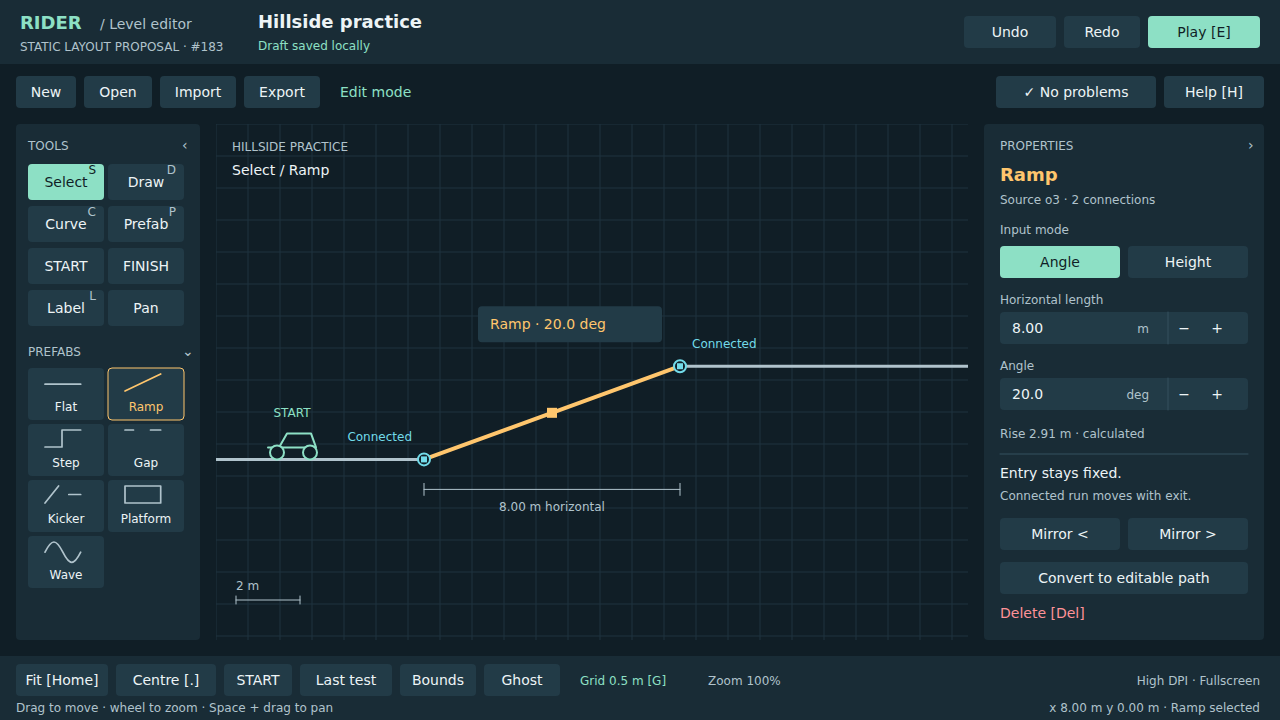
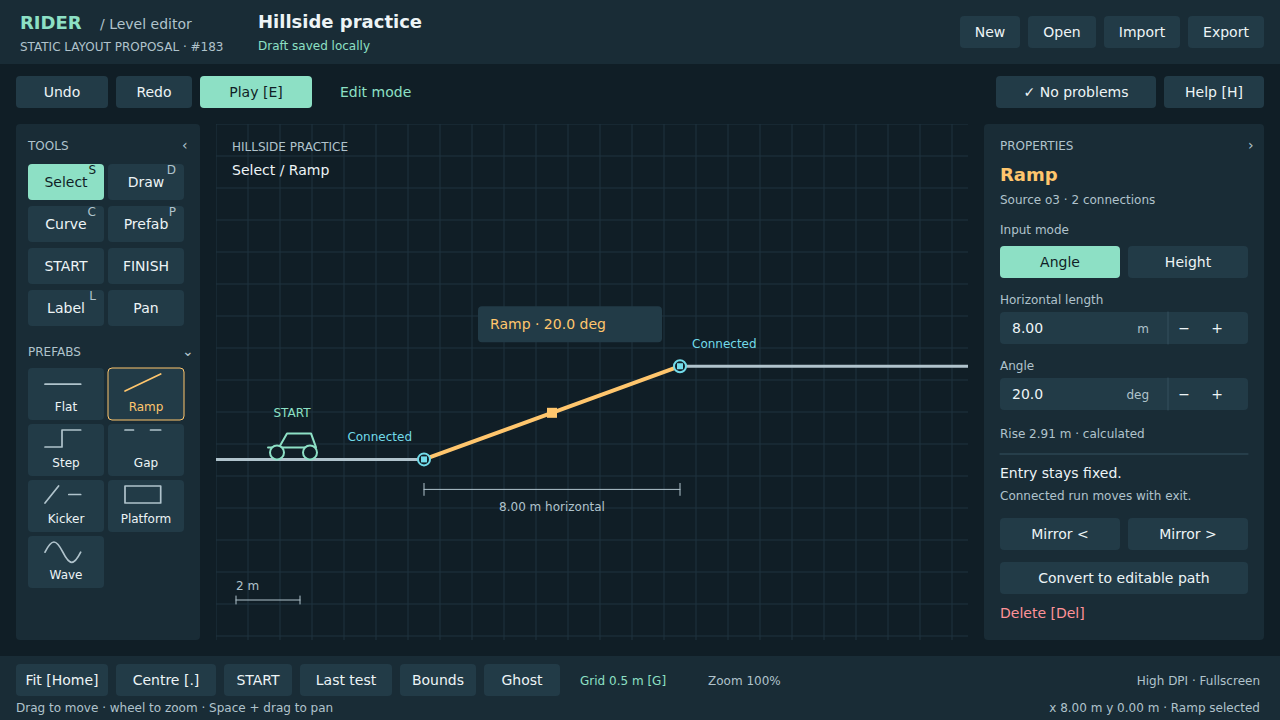
docs(editor): swap file and play command groups

Changed region(s): [[0.75, 0.0, 1.0, 0.0917], [0.0312, 0.0917, 0.25, 0.1528]]

diff --git a/docs/editor-a/render_layouts.py b/docs/editor-a/render_layouts.py
@@ -30,8 +30,8 @@ def render(w, h, selected):
     rect(0,0,w,64,PANEL,r=0); text(20,29,'RIDER',ACCENT,'title'); text(100,29,'/  Level editor',MUTED)
     text(20,51,'STATIC LAYOUT PROPOSAL  ·  #183',MUTED,'small')
     text(258,28,'Hillside practice',TEXT,'title');text(258,50,'Draft saved locally',ACCENT,'small')
-    button(w-316,16,92,'Undo');button(w-216,16,76,'Redo');button(w-132,16,112,'Play [E]',True)
-    for x,bw,label in [(16,60,'New'),(84,68,'Open'),(160,76,'Import'),(244,76,'Export')]: button(x,76,bw,label)
+    for x,bw,label in [(w-320,60,'New'),(w-252,68,'Open'),(w-176,76,'Import'),(w-92,76,'Export')]: button(x,16,bw,label)
+    button(16,76,92,'Undo');button(116,76,76,'Redo');button(200,76,112,'Play [E]',True)
     text(340,97,'Edit mode',ACCENT)
     button(w-284,76,160,'✓  No problems');button(w-116,76,100,'Help [H]')
     # Left palette.

diff --git a/STATUS.md b/STATUS.md
@@ -6,7 +6,7 @@ Updated 2026-10-20. The only source for current progress, open acceptance and bl
 
 ## Now
 
-- **Editor A1a [#183](https://github.com/bongohorse/rider/issues/183) (Claudio GO 2026-10-21):** start Milestone 7, Editor A – UI & Recovery; owner Codex, branch `docs/183-editor-layout`. Dependency #129 is closed as completed: Claudio's acceptance/closure decision is recorded in its Closure section (2026-10-21), without new trial observations or timings. Four PNG/SVG layout previews (build / selected Ramp at 1280×720 and 1920×1080), reproducible vector source and the screen-layout specification are in [PR #253](https://github.com/bongohorse/rider/pull/253). Visual inspection of all four, exact PNG dimensions, text contrast, local links, bootstrap check + 55 tests, 29 Python CI tests and 71 Node CI/mobile tests PASS. GUI allocation is an estimate (606/640), not a runtime measurement. No game/GUI code changed. Final diff self-review complete; no independent review claimed. CI evidence is tracked in the PR; it remains open for approval, with no automatic merge. Stop for Claudio's layout approval; #171 has no GO and must not start. This explicit GO supersedes the earlier Editor A scheduling hold for this task only.
+- **Editor A1a [#183](https://github.com/bongohorse/rider/issues/183) (Claudio GO 2026-10-21):** start Milestone 7, Editor A – UI & Recovery; owner Codex, branch `docs/183-editor-layout`. Dependency #129 is closed as completed: Claudio's acceptance/closure decision is recorded in its Closure section (2026-10-21), without new trial observations or timings. Four PNG/SVG layout previews (build / selected Ramp at 1280×720 and 1920×1080), reproducible vector source and the screen-layout specification are in [PR #253](https://github.com/bongohorse/rider/pull/253). Visual inspection of all four, exact PNG dimensions, text contrast, local links, bootstrap check + 55 tests, 29 Python CI tests and 71 Node CI/mobile tests PASS. Layout revision requested by Claudio (2026-10-21): swap the command groups between rows/positions; New/Open/Import/Export now occupy the upper right, Undo/Redo/Play the second row left, in all four previews and the specification. GUI allocation is an estimate (606/640), not a runtime measurement. No game/GUI code changed. Final diff self-review complete; no independent review claimed. CI evidence is tracked in the PR; it remains open for approval, with no automatic merge. Stop for Claudio's layout approval; #171 has no GO and must not start. This explicit GO supersedes the earlier Editor A scheduling hold for this task only.
 
 - **Vehicle seating [#251](https://github.com/bongohorse/rider/issues/251) (Claudio GO 2026-10-21):** owner Codex, branch `fix/vehicle-seating`; dependency #248 merged. Raise body artwork 6 u and lower driver artwork 40 u, including replay. Visual component offsets only; physics, wheel positions, head sensor and handling retained. Pinned debug HTML5 build and browser inspection at 1280×720 and 1080×486 (rest and driving) PASS, no observed runtime errors. Bootstrap check + 55 tests, 29 Python CI tests, 71 Node CI/mobile tests and existing `cf3` (landing, toggle, Retry, layer order) PASS. Browser evidence in `artifacts/seating-visual/`; local bundle built from 8205a9d with this task’s uncommitted diff. First cf3 invocation used a shortened expected SHA and timed out; rerun with the full SHA PASS. Human/device drive test NOT RUN. Claudio authorized completion including commit/merge (2026-10-21 follow-up). Final diff self-review complete: only sprite component positions and the explanatory comment change; unchanged collision resources, head sensor, wheel transforms, animation pivot and presets; matching live/replay rest offsets. No unresolved findings; no independent review claimed. Implementation [PR #252](https://github.com/bongohorse/rider/pull/252) tracks current-head CI, merge and deployment evidence; merge requires green `required`.
 

diff --git a/docs/contracts/level-editor.md b/docs/contracts/level-editor.md
@@ -112,8 +112,8 @@ All coordinates below are logical canvas pixels at UI scale 1, independent of wo
 
 | Region | Specification |
 | --- | --- |
-| Header | y 0–64; brand, level title and persistence status at left; Undo, Redo, Play at right |
-| Command row | y 76–108; New, Open, Import, Export at left; diagnostic count and Help at right |
+| Header | y 0–64; brand, level title and persistence status at left; New, Open, Import, Export at right |
+| Command row | y 76–108; Undo, Redo, Play at left; diagnostic count and Help at right |
 | Tool panel | x 16, y 124; width 184; lower edge h−80; 2 × 4 tool cells, then 2-column prefab cards |
 | Inspector | x w−296, y 124; width 280; lower edge h−80; fixed heading, scrollable content |
 | Uncovered canvas | x 216 to w−312; y 124 to h−80: **752 × 516** at 720p; **1392 × 876** at 1080p |
